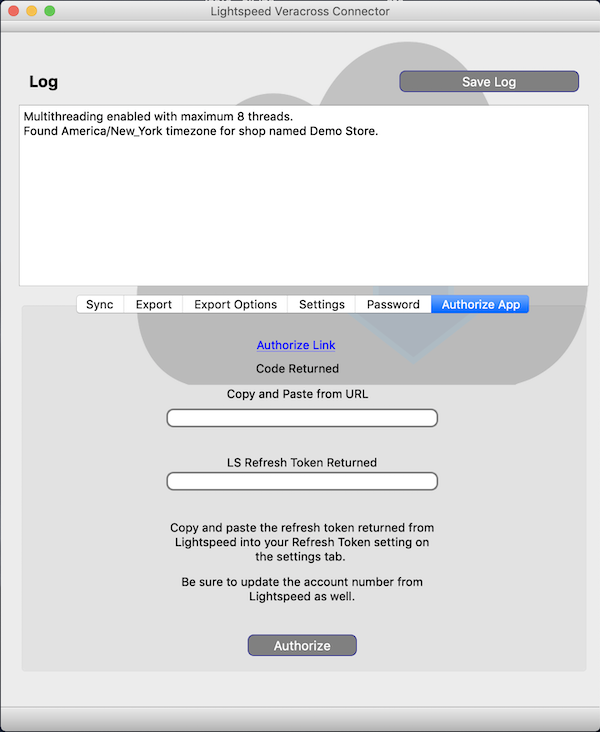
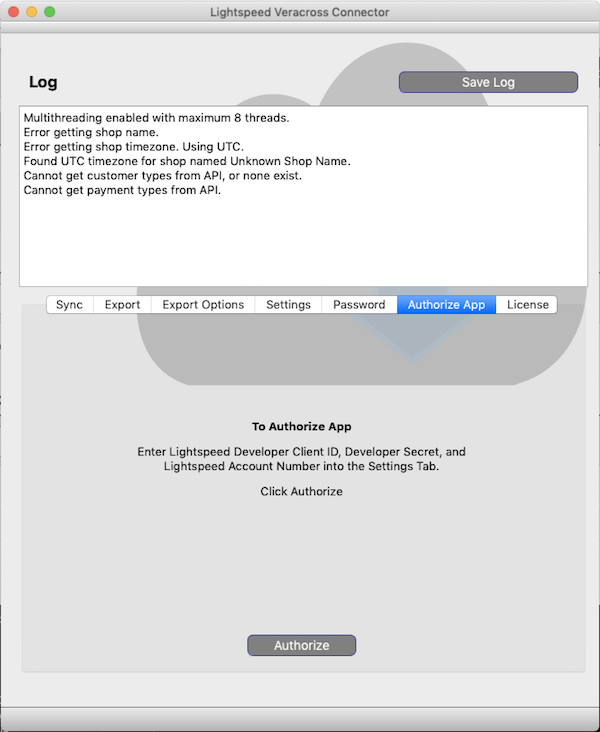
working version of single click authorization

diff --git a/main.py b/main.py
@@ -1,6 +1,8 @@
 from PyQt5.QtGui import *
 from PyQt5.QtWidgets import *
 from PyQt5.QtCore import *
+from PyQt5.QtWebEngineCore import QWebEngineUrlRequestInterceptor
+from PyQt5.QtWebEngineWidgets import QWebEnginePage, QWebEngineView
 from mainwindow import Ui_MainWindow
 import veracross_api
 import lightspeed_api
@@ -49,6 +51,39 @@ class WorkerSignals(QObject):
     progress = pyqtSignal(int)
 
 
+class AuthorizeLS(QMainWindow):
+    def __init__(self, auth_url):
+        QMainWindow.__init__(self)
+        self.auth_url = auth_url
+        self.page = QWebEnginePage()
+        self.view = QWebEngineView()
+        self.view.setPage(self.page)
+        self.interceptor = AuthCodeInterceptor()
+        self.page.profile().setRequestInterceptor(self.interceptor)
+        self.view.setUrl(QUrl(self.auth_url))
+        self.view.show()
+
+    def check_code(self):
+        return self.interceptor.code
+
+
+class AuthCodeInterceptor(QWebEngineUrlRequestInterceptor):
+    code_returned = pyqtSignal()
+
+    def __init__(self):
+        super().__init__()
+
+        self.code = ""
+
+    def interceptRequest(self, info):
+        url = info.firstPartyUrl().toString()
+
+        if "localhost" in url:
+            code = url.split("code=")[1]
+            self.code = code
+            self.code_returned.emit()
+
+
 class Main(QMainWindow):
     def __init__(self):
         QMainWindow.__init__(self)
@@ -73,7 +108,6 @@ class Main(QMainWindow):
                                                           QLineEdit.Password)
 
         if ok and self.config_passwd:
-            print("password=%s" % self.config_passwd)
             try:
                 self.c = config.load_settings("config", self.config_passwd)
             except ValueError:
@@ -144,9 +178,6 @@ class Main(QMainWindow):
             self.ui.txt_VCAPIURL.setText(self.c["vcurl"])
         if "client_id" in self.c.keys():
             self.ui.txt_LSDevelID.setText(self.c["client_id"])
-            self.ui.lbl_AuthorizeApp.setText("<a href=\"https://cloud.lightspeedapp.com/oauth/authorize.php"
-                                             "?response_type=code&client_id={}&scope=employee:all\">"
-                                             "Authorize Link</a>".format(self.c["client_id"]))
         if "client_secret" in self.c.keys():
             self.ui.txt_DevelSecret.setText(self.c["client_secret"])
         if "refresh_token" in self.c.keys():
@@ -720,14 +751,28 @@ class Main(QMainWindow):
         Authorize App
         :return:
         """
-        if len(self.ui.txt_CodeReturned.text()) > 0:
-            token = self.ls.get_authorization_token(self.ui.txt_CodeReturned.text())
-            self.ui.txt_AuthorizeReturnedRefreshToken.setText(str(token))
-            self.ui.txt_RefreshToken.setText(token)
-            QMessageBox.question(self, 'Application Authorized',
-                                 "Application is now authorized with your Lightspeed account.",
-                                 QMessageBox.Ok)
-            self.save_settings_button()
+
+        if len(self.c["client_id"]) > 0:
+            self.auth_url = "https://cloud.lightspeedapp.com/oauth/authorize.php?" \
+                                             "response_type=code&client_id={}&scope=employee:all".format(self.c["client_id"])
+            self.authorize_window = AuthorizeLS(self.auth_url)
+            self.authorize_window.interceptor.code_returned.connect(self.authorization_complete)
+
+    @pyqtSlot()
+    def authorization_complete(self):
+        code = self.authorize_window.interceptor.code
+        self.authorize_window.view.hide()
+        self.debug_append_log('Authorization Code Returned: ' + code, "info")
+
+        if len(code) > 0:
+             token = self.ls.get_authorization_token(code)
+             self.debug_append_log('Refresh Token Returned: ' + token, "info")
+             self.ui.txt_RefreshToken.setText(token)
+             QMessageBox.question(self, 'Application Authorized with Lightspeed',
+                                  "Application is now authorized with your Lightspeed account. "
+                                  "Please restart application.",
+                                  QMessageBox.Ok)
+             self.save_settings_button()
 
     def debug_append_log(self, text, level):
         """

diff --git a/mainwindow.py b/mainwindow.py
@@ -357,35 +357,14 @@ class Ui_MainWindow(object):
         self.tabs.addTab(self.tab, "")
         self.tab_Authorize = QtWidgets.QWidget()
         self.tab_Authorize.setObjectName("tab_Authorize")
-        self.lbl_AuthorizeApp = QtWidgets.QLabel(self.tab_Authorize)
-        self.lbl_AuthorizeApp.setGeometry(QtCore.QRect(260, 20, 91, 20))
-        self.lbl_AuthorizeApp.setStyleSheet("")
-        self.lbl_AuthorizeApp.setTextFormat(QtCore.Qt.RichText)
-        self.lbl_AuthorizeApp.setOpenExternalLinks(True)
-        self.lbl_AuthorizeApp.setTextInteractionFlags(QtCore.Qt.TextBrowserInteraction)
-        self.lbl_AuthorizeApp.setObjectName("lbl_AuthorizeApp")
-        self.txt_CodeReturned = QtWidgets.QLineEdit(self.tab_Authorize)
-        self.txt_CodeReturned.setGeometry(QtCore.QRect(160, 100, 301, 21))
-        self.txt_CodeReturned.setObjectName("txt_CodeReturned")
         self.lbl_AuthorizeCodeReturned = QtWidgets.QLabel(self.tab_Authorize)
-        self.lbl_AuthorizeCodeReturned.setGeometry(QtCore.QRect(200, 40, 211, 61))
+        self.lbl_AuthorizeCodeReturned.setGeometry(QtCore.QRect(100, 60, 421, 191))
         self.lbl_AuthorizeCodeReturned.setTextFormat(QtCore.Qt.RichText)
         self.lbl_AuthorizeCodeReturned.setWordWrap(True)
         self.lbl_AuthorizeCodeReturned.setObjectName("lbl_AuthorizeCodeReturned")
         self.btn_Authorize = QtWidgets.QPushButton(self.tab_Authorize)
         self.btn_Authorize.setGeometry(QtCore.QRect(250, 350, 121, 24))
         self.btn_Authorize.setObjectName("btn_Authorize")
-        self.txt_AuthorizeReturnedRefreshToken = QtWidgets.QLineEdit(self.tab_Authorize)
-        self.txt_AuthorizeReturnedRefreshToken.setGeometry(QtCore.QRect(160, 170, 301, 21))
-        self.txt_AuthorizeReturnedRefreshToken.setObjectName("txt_AuthorizeReturnedRefreshToken")
-        self.label_15 = QtWidgets.QLabel(self.tab_Authorize)
-        self.label_15.setGeometry(QtCore.QRect(160, 150, 301, 20))
-        self.label_15.setObjectName("label_15")
-        self.label_16 = QtWidgets.QLabel(self.tab_Authorize)
-        self.label_16.setGeometry(QtCore.QRect(160, 200, 301, 141))
-        self.label_16.setTextFormat(QtCore.Qt.RichText)
-        self.label_16.setWordWrap(True)
-        self.label_16.setObjectName("label_16")
         self.tabs.addTab(self.tab_Authorize, "")
         self.tab_License = QtWidgets.QWidget()
         self.tab_License.setObjectName("tab_License")
@@ -518,11 +497,8 @@ class Ui_MainWindow(object):
         self.btn_ChangeEncPassword.setText(_translate("MainWindow", "Change Password"))
         self.label_17.setText(_translate("MainWindow", "Change Settings Encryption Password"))
         self.tabs.setTabText(self.tabs.indexOf(self.tab), _translate("MainWindow", "Password"))
-        self.lbl_AuthorizeApp.setText(_translate("MainWindow", "<html><head/><body><p align=\"center\"><a href=\"https://cloud.lightspeedapp.com/oauth/authorize.php?scope=employee:all&amp;response_type=code&amp;client_id=__CLIENT_ID__\"><span style=\" text-decoration: underline; color:#0000ff;\">Authorize Link</span></a></p></body></html>"))
-        self.lbl_AuthorizeCodeReturned.setText(_translate("MainWindow", "<html><head/><body><p align=\"center\">Code Returned</p><p align=\"center\">Copy and Paste from URL</p></body></html>"))
+        self.lbl_AuthorizeCodeReturned.setText(_translate("MainWindow", "<html><head/><body><p align=\"center\"><span style=\" font-weight:600;\">To Authorize App</span></p><p align=\"center\">Enter Lightspeed Developer Client ID, Developer Secret, and Lightspeed Account Number into the Settings Tab.</p><p align=\"center\">Click Authorize</p></body></html>"))
         self.btn_Authorize.setText(_translate("MainWindow", "Authorize"))
-        self.label_15.setText(_translate("MainWindow", "<html><head/><body><p align=\"center\">LS Refresh Token Returned</p></body></html>"))
-        self.label_16.setText(_translate("MainWindow", "<html><head/><body><p align=\"center\"><br/></p></body></html>"))
         self.tabs.setTabText(self.tabs.indexOf(self.tab_Authorize), _translate("MainWindow", "Authorize App"))
         self.tabs.setTabText(self.tabs.indexOf(self.tab_License), _translate("MainWindow", "License"))
         self.lbl_Icon.setText(_translate("MainWindow", "icon"))
